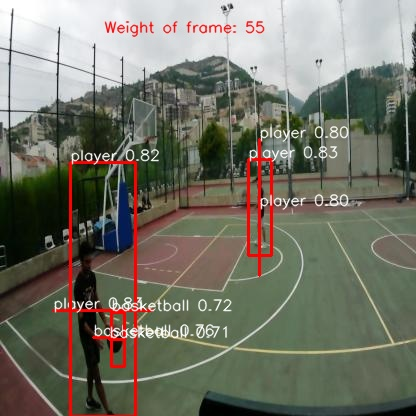
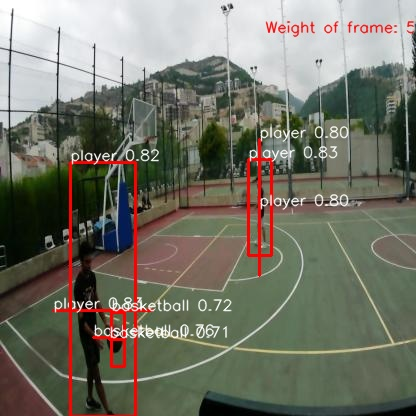
:)

Changed region(s): [[0.25, 0.0312, 1.0, 0.0938]]

diff --git a/realtimetracking.py b/realtimetracking.py
@@ -61,7 +61,7 @@ if(args.image) is not None:
 
     (text_width, text_height), baseline = cv2.getTextSize(weight, 0, 1, 2)
 
-    text_x = int(width/4)
+    text_x = int(width/4 + text_width/2)
     text_y = text_height + 10
 
     cv2.putText(img, weight, (text_x, text_y), 0, 0.5, (0, 0, 255), 1, lineType=cv2.LINE_AA)
